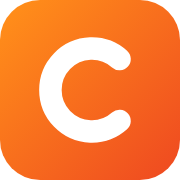
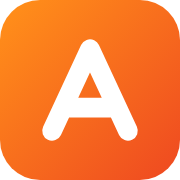
Rename placeholder client to Acme Medical
Claude-Session: https://claude.ai/code/session_01553RsseoGjP3BXVm2JTUrc

Changed region(s): [[0.1944, 0.1944, 0.7778, 0.8056]]

diff --git a/lib/data.ts b/lib/data.ts
@@ -62,7 +62,7 @@ export function milestonesFor(index: number): Milestone[] {
 export const TRIALS: Trial[] = [
   {
     id: "solaris",
-    code: "CVN'916",
+    code: "ACM'916",
     name: "SOLARIS-2",
     indication: "Advanced NSCLC, STK11 / KEAP1 co-mutation",
     phase: "Phase II",
@@ -97,7 +97,7 @@ export const TRIALS: Trial[] = [
   },
   {
     id: "helios",
-    code: "CVN'742",
+    code: "ACM'742",
     name: "HELIOS-B",
     indication: "Metastatic colorectal, MSI-high",
     phase: "Phase II",
@@ -131,7 +131,7 @@ export const TRIALS: Trial[] = [
   },
   {
     id: "aurora",
-    code: "CVN'508",
+    code: "ACM'508",
     name: "AURORA",
     indication: "Ovarian, BRCA-mutated, platinum-sensitive",
     phase: "Phase II",
@@ -242,7 +242,7 @@ export const SITES: Site[] = [
     },
   },
 
-  // HELIOS-B (CVN'742) sites
+  // HELIOS-B (ACM'742) sites
   {
     id: "chicago",
     trialId: "helios",
@@ -298,7 +298,7 @@ export const SITES: Site[] = [
     },
   },
 
-  // AURORA (CVN'508) sites
+  // AURORA (ACM'508) sites
   {
     id: "newyork",
     trialId: "aurora",
@@ -964,7 +964,7 @@ export const AUDIT_LOG: AuditEntry[] = [
     date: "13 Jul 2026",
     time: "09:05",
     trialId: "solaris",
-    trialCode: "CVN'916",
+    trialCode: "ACM'916",
     siteId: "manchester",
     category: "Early warning",
     actor: "Agent",
@@ -976,7 +976,7 @@ export const AUDIT_LOG: AuditEntry[] = [
     date: "13 Jul 2026",
     time: "08:40",
     trialId: "solaris",
-    trialCode: "CVN'916",
+    trialCode: "ACM'916",
     category: "Enrolment",
     actor: "RTSM (system)",
     event: "Enrolment reconciled live across 4 sites. Portfolio total 31 of 48.",
@@ -986,7 +986,7 @@ export const AUDIT_LOG: AuditEntry[] = [
     date: "12 Jul 2026",
     time: "16:22",
     trialId: "solaris",
-    trialCode: "CVN'916",
+    trialCode: "ACM'916",
     siteId: "guys",
     category: "Consent",
     actor: "Agent",
@@ -998,7 +998,7 @@ export const AUDIT_LOG: AuditEntry[] = [
     date: "12 Jul 2026",
     time: "11:10",
     trialId: "solaris",
-    trialCode: "CVN'916",
+    trialCode: "ACM'916",
     siteId: "guys",
     category: "Enrolment",
     actor: "Dr A. Mensah, PI",
@@ -1009,7 +1009,7 @@ export const AUDIT_LOG: AuditEntry[] = [
     date: "11 Jul 2026",
     time: "14:48",
     trialId: "helios",
-    trialCode: "CVN'742",
+    trialCode: "ACM'742",
     category: "Early warning",
     actor: "Agent",
     event:
@@ -1020,7 +1020,7 @@ export const AUDIT_LOG: AuditEntry[] = [
     date: "11 Jul 2026",
     time: "10:02",
     trialId: "solaris",
-    trialCode: "CVN'916",
+    trialCode: "ACM'916",
     category: "Diversity",
     actor: "Agent",
     event:
@@ -1031,7 +1031,7 @@ export const AUDIT_LOG: AuditEntry[] = [
     date: "10 Jul 2026",
     time: "15:30",
     trialId: "solaris",
-    trialCode: "CVN'916",
+    trialCode: "ACM'916",
     category: "Criteria",
     actor: "CTM · M. Delgado",
     event:
@@ -1042,7 +1042,7 @@ export const AUDIT_LOG: AuditEntry[] = [
     date: "09 Jul 2026",
     time: "09:15",
     trialId: "aurora",
-    trialCode: "CVN'508",
+    trialCode: "ACM'508",
     category: "Milestone",
     actor: "Agent",
     event: "M5 Enrolment target reached at 94% (34 of 36). Focus shifting to LPLV monitoring.",
@@ -1052,7 +1052,7 @@ export const AUDIT_LOG: AuditEntry[] = [
     date: "08 Jul 2026",
     time: "13:40",
     trialId: "solaris",
-    trialCode: "CVN'916",
+    trialCode: "ACM'916",
     siteId: "guys",
     category: "Enrolment",
     actor: "Dr A. Mensah, PI",
@@ -1063,7 +1063,7 @@ export const AUDIT_LOG: AuditEntry[] = [
     date: "06 Jul 2026",
     time: "10:25",
     trialId: "solaris",
-    trialCode: "CVN'916",
+    trialCode: "ACM'916",
     siteId: "madrid",
     category: "Activation",
     actor: "Agent",
@@ -1075,7 +1075,7 @@ export const AUDIT_LOG: AuditEntry[] = [
     date: "05 Jul 2026",
     time: "17:05",
     trialId: "helios",
-    trialCode: "CVN'742",
+    trialCode: "ACM'742",
     category: "Diversity",
     actor: "Agent",
     event:
@@ -1086,7 +1086,7 @@ export const AUDIT_LOG: AuditEntry[] = [
     date: "03 Jul 2026",
     time: "12:00",
     trialId: "aurora",
-    trialCode: "CVN'508",
+    trialCode: "ACM'508",
     category: "Consent",
     actor: "Dr R. Silva, PI",
     event: "Amendment v2 re-consents completed for all active participants.",
@@ -1096,7 +1096,7 @@ export const AUDIT_LOG: AuditEntry[] = [
     date: "28 Jun 2026",
     time: "09:50",
     trialId: "solaris",
-    trialCode: "CVN'916",
+    trialCode: "ACM'916",
     category: "Milestone",
     actor: "CTM · M. Delgado",
     event: "M3 Screening open confirmed across activated sites.",
@@ -1106,7 +1106,7 @@ export const AUDIT_LOG: AuditEntry[] = [
     date: "20 Jun 2026",
     time: "11:35",
     trialId: "solaris",
-    trialCode: "CVN'916",
+    trialCode: "ACM'916",
     siteId: "guys",
     category: "Enrolment",
     actor: "RTSM (system)",
@@ -1117,7 +1117,7 @@ export const AUDIT_LOG: AuditEntry[] = [
     date: "14 Jun 2026",
     time: "08:20",
     trialId: "helios",
-    trialCode: "CVN'742",
+    trialCode: "ACM'742",
     category: "Milestone",
     actor: "CTM · M. Delgado",
     event: "M2 First patient in reached at lead site.",
@@ -1127,7 +1127,7 @@ export const AUDIT_LOG: AuditEntry[] = [
     date: "02 Jun 2026",
     time: "14:10",
     trialId: "aurora",
-    trialCode: "CVN'508",
+    trialCode: "ACM'508",
     category: "Early warning",
     actor: "Agent",
     event:
@@ -1172,7 +1172,7 @@ export const EARLY_WARNINGS: EarlyWarning[] = [
   {
     id: "w1",
     trialId: "solaris",
-    trialCode: "CVN'916",
+    trialCode: "ACM'916",
     severity: "High",
     title: "Screen-failure rate 2.1x trial average at Manchester",
     description:
@@ -1200,7 +1200,7 @@ export const EARLY_WARNINGS: EarlyWarning[] = [
   {
     id: "w2",
     trialId: "helios",
-    trialCode: "CVN'742",
+    trialCode: "ACM'742",
     severity: "High",
     title: "First-patient-in slip of 5 weeks predicted",
     description:
@@ -1228,7 +1228,7 @@ export const EARLY_WARNINGS: EarlyWarning[] = [
   {
     id: "w3",
     trialId: "solaris",
-    trialCode: "CVN'916",
+    trialCode: "ACM'916",
     severity: "Medium",
     title: "Diversity plan drifting on representation",
     description:
@@ -1256,7 +1256,7 @@ export const EARLY_WARNINGS: EarlyWarning[] = [
   {
     id: "w4",
     trialId: "aurora",
-    trialCode: "CVN'508",
+    trialCode: "ACM'508",
     severity: "Low",
     title: "Approaching enrolment target with strong retention",
     description:

diff --git a/components/shell/AuthGate.tsx b/components/shell/AuthGate.tsx
@@ -9,7 +9,7 @@ import { Lock, Shield, Sparkle } from "@/components/ui/icons";
 // deployment enforces server-side auth, MFA, rate limiting, and lockout
 // before any content is served. Nothing sensitive is rendered until unlock.
 const DEMO_USER = "reviewer";
-const DEMO_PASS = "corvane-phase2";
+const DEMO_PASS = "acme-phase2";
 const KEY = "ctp-auth";
 
 export function AuthGate({ children }: { children: React.ReactNode }) {
@@ -40,7 +40,7 @@ export function AuthGate({ children }: { children: React.ReactNode }) {
     <div className="flex min-h-screen items-center justify-center bg-surface px-4 py-10">
       <div className="w-full max-w-sm">
         <div className="mb-6 flex flex-col items-center text-center">
-          <img src="/corvane-logo.svg" alt="Corvane" className="mb-5 h-9 w-auto" />
+          <img src="/acme-logo.svg" alt="Acme Medical" className="mb-5 h-9 w-auto" />
           <h1 className="font-brand text-xl font-semibold text-ink">
             Connected Trial Platform
           </h1>

diff --git a/components/shell/StaffLayout.tsx b/components/shell/StaffLayout.tsx
@@ -17,7 +17,7 @@ export interface StaffUser {
 }
 
 // Shared chrome for the two staff experiences (§11): left fixed sidebar with
-// Corvane lockup + brand block, top bar with page title + search, and a user
+// Acme Medical lockup + brand block, top bar with page title + search, and a user
 // profile at the foot of the sidebar. Active nav uses a tinted fill and weight
 // change, never a border stripe (§3 ban).
 export function StaffLayout({
@@ -50,7 +50,7 @@ export function StaffLayout({
       {/* Sidebar */}
       <aside className="fixed inset-y-0 left-0 z-30 hidden w-60 flex-col border-r border-line bg-white lg:flex">
         <div className="flex items-center px-5 pt-5">
-          <img src="/corvane-logo.svg" alt="Corvane" className="h-7 w-auto" />
+          <img src="/acme-logo.svg" alt="Acme Medical" className="h-7 w-auto" />
         </div>
         {brandTitle && (
           <div className="px-5 pb-4 pt-3">

diff --git a/app/manifest.ts b/app/manifest.ts
@@ -2,10 +2,10 @@ import type { MetadataRoute } from "next";
 
 export default function manifest(): MetadataRoute.Manifest {
   return {
-    name: "Connected Trial Platform — Corvane",
+    name: "Connected Trial Platform — Acme Medical",
     short_name: "Trial Platform",
     description:
-      "Role-based platform for Corvane Phase II oncology recruitment and enrolment.",
+      "Role-based platform for Acme Medical Phase II oncology recruitment and enrolment.",
     start_url: "/",
     display: "standalone",
     background_color: "#ffffff",

diff --git a/components/siteteam/CandidateDetail.tsx b/components/siteteam/CandidateDetail.tsx
@@ -130,7 +130,7 @@ export function CandidateDetail({
           <p className="mt-1 text-sm text-body">
             {c.code} · Age {c.age} · Advanced NSCLC
           </p>
-          <p className="text-[13px] text-meta">CVN&rsquo;916 · Guy&rsquo;s, London</p>
+          <p className="text-[13px] text-meta">ACM&rsquo;916 · Guy&rsquo;s, London</p>
           <p className="mt-1 text-[13px] text-meta">Source: {c.provenance}</p>
           <div className="mt-3">
             <BiomarkerChips biomarker={c.biomarker} />

diff --git a/app/layout.tsx b/app/layout.tsx
@@ -9,9 +9,9 @@ const inter = Inter({
 });
 
 export const metadata: Metadata = {
-  title: "Connected Trial Platform — Corvane",
+  title: "Connected Trial Platform — Acme Medical",
   description:
-    "Role-based platform for Corvane Phase II oncology recruitment and enrolment.",
+    "Role-based platform for Acme Medical Phase II oncology recruitment and enrolment.",
   // §4: nothing served to unauthenticated agents; no indexing.
   robots: {
     index: false,

diff --git a/app/globals.css b/app/globals.css
@@ -1,7 +1,7 @@
 @import "tailwindcss";
 
 /* ------------------------------------------------------------------ */
-/* Design tokens (§11 Corvane design system)                               */
+/* Design tokens (§11 Acme Medical design system)                               */
 /* ------------------------------------------------------------------ */
 @theme {
   --font-sans: var(--font-inter), system-ui, -apple-system, "Segoe UI", Roboto, sans-serif;

diff --git a/components/companion/Companion.tsx b/components/companion/Companion.tsx
@@ -76,7 +76,7 @@ export function Companion() {
             <div className="flex flex-1 items-center gap-2 rounded-md border border-line bg-white px-3 py-1.5">
               <Lock size={12} className="text-meta" />
               <span className="truncate text-[12px] text-body">
-                app.corvane-trials.com/patient
+                app.acme-trials.com/patient
               </span>
             </div>
           </div>

diff --git a/components/siteteam/SiteTeam.tsx b/components/siteteam/SiteTeam.tsx
@@ -107,7 +107,7 @@ export function SiteTeam() {
     <>
       <StaffLayout
         title="Site Team workspace"
-        subtitle="Site 04 — Guy's, London · SOLARIS-2 (CVN'916)"
+        subtitle="Site 04 — Guy's, London · SOLARIS-2 (ACM'916)"
         brandTitle="Site Team"
         brandSubtitle="Guy's, London"
         user={{

diff --git a/lib/companion.ts b/lib/companion.ts
@@ -4,7 +4,7 @@
 
 export const PATIENT = {
   name: "Amara",
-  trialCode: "CVN'916",
+  trialCode: "ACM'916",
   trialName: "SOLARIS-2",
   site: "Guy's, London",
   clinician: "Dr Mensah",

diff --git a/README.md b/README.md
@@ -1,6 +1,6 @@
-# Connected Trial Platform — Corvane
+# Connected Trial Platform — Acme Medical
 
-One application, three role-based experiences, for Corvane Phase II oncology
+One application, three role-based experiences, for Acme Medical Phase II oncology
 recruitment and enrolment. Built to `connected-trial-platform-spec-v3.md`.
 
 ## Run
@@ -10,7 +10,7 @@ npm install
 npm run dev      # http://localhost:3000
 ```
 
-**Demonstration sign-in:** username `reviewer`, password `corvane-phase2`.
+**Demonstration sign-in:** username `reviewer`, password `acme-phase2`.
 The whole app sits behind authentication; nothing renders pre-login (§4).
 
 ## The three experiences
@@ -43,7 +43,7 @@ screen (§5). Each experience preserves its own state when you switch away.
   run moves idle → running → done with a real in-flight indicator and a
   completion summary; agent output is labelled "AI generated" with a sparkle and
   carries provenance; Agent / Assist / Human autonomy badges appear throughout.
-- **Design system** (`app/globals.css`) — Corvane Orange primary, teal/indigo
+- **Design system** (`app/globals.css`) — Acme Orange primary, teal/indigo
   reserved for AI, semantic status colours (always paired with text/icon),
   self-hosted Inter, 8pt grid, soft elevation, no coloured
   left-border accents, no em dashes in UI copy, no monospace, no emoji icons.
